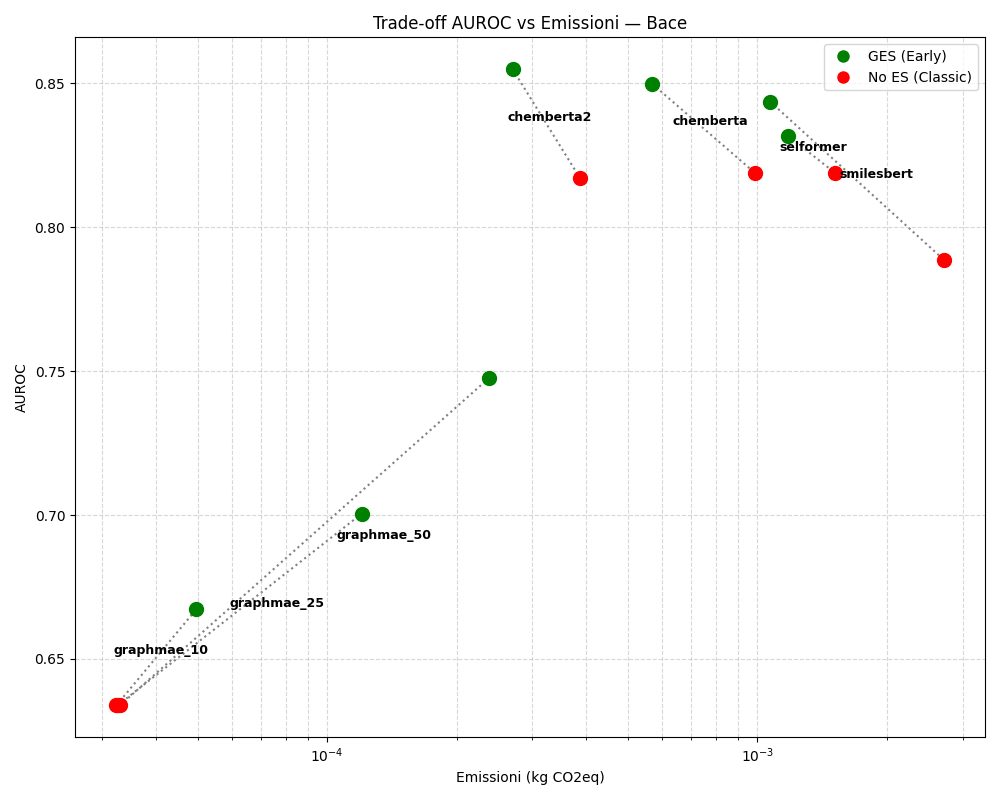
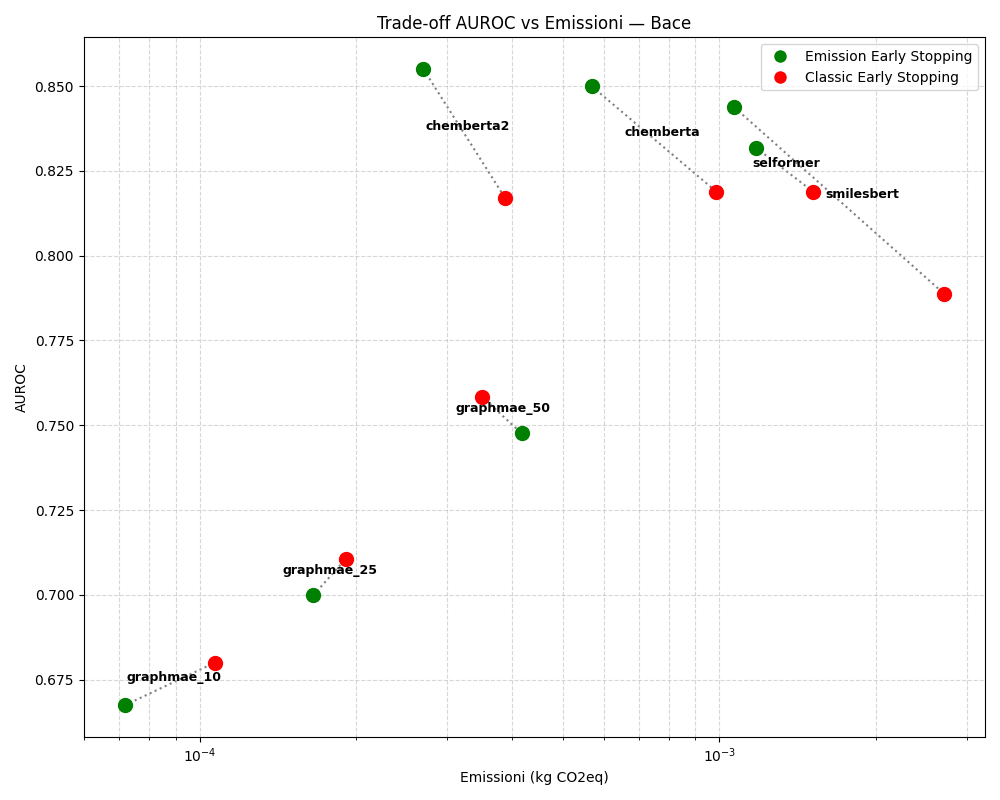
Exp

diff --git a/prog/EarlyStopping.py b/prog/EarlyStopping.py
@@ -64,13 +64,18 @@ class EmissionsEarlyStoppingCallback():
 
         if self.classic:
             # Classic early stopping based only on metrics
+            # NOTE: apply warmup_epochs to classic mode as well — do not trigger
+            # stopping (nor increase patience counter) before warmup completes.
             improved = (current_performance < self.best_performance) if self.is_regression else (current_performance > self.best_performance)
             if improved:
                 self.best_performance = current_performance
                 self.patience_counter = 0
             else:
-                self.patience_counter += 1
-            if self.patience_counter >= self.patience:
+                # Only count towards patience after warmup epochs
+                if self.epoch >= self.warmup_epochs:
+                    self.patience_counter += 1
+            # Only allow early stop after warmup
+            if self.epoch >= self.warmup_epochs and self.patience_counter >= self.patience:
                 return True
         else:
             # Original AER-based stopping

diff --git a/prog/plot.py b/prog/plot.py
@@ -85,8 +85,8 @@ def plot_tradeoff(df, metric, out_name, title):
     plt.grid(True, which='both', ls='--', alpha=0.5)
 
     legend_elements = [
-        Line2D([0], [0], marker='o', color='w', label='GES (Early)', markerfacecolor='green', markersize=10),
-        Line2D([0], [0], marker='o', color='w', label='No ES (Classic)', markerfacecolor='red', markersize=10)
+        Line2D([0], [0], marker='o', color='w', label='Emission Early Stopping', markerfacecolor='green', markersize=10),
+        Line2D([0], [0], marker='o', color='w', label='Classic Early Stopping', markerfacecolor='red', markersize=10)
     ]
     plt.legend(handles=legend_elements, loc='upper right')
     plt.tight_layout()
